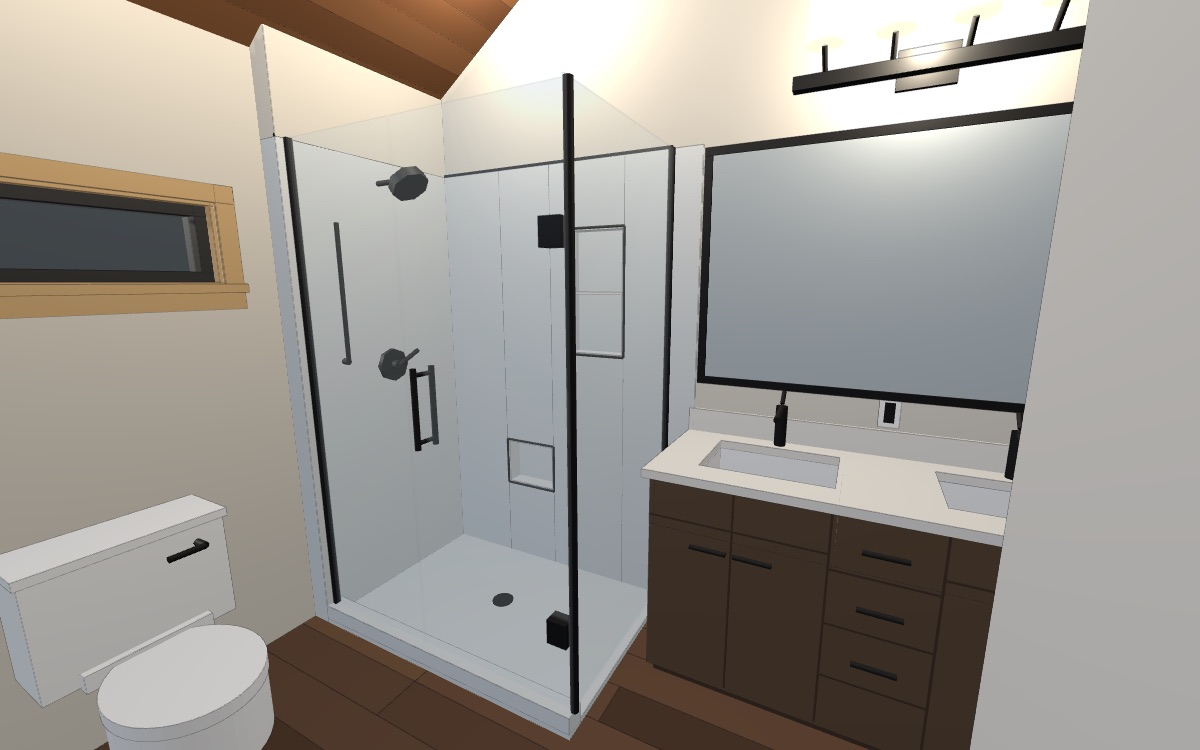
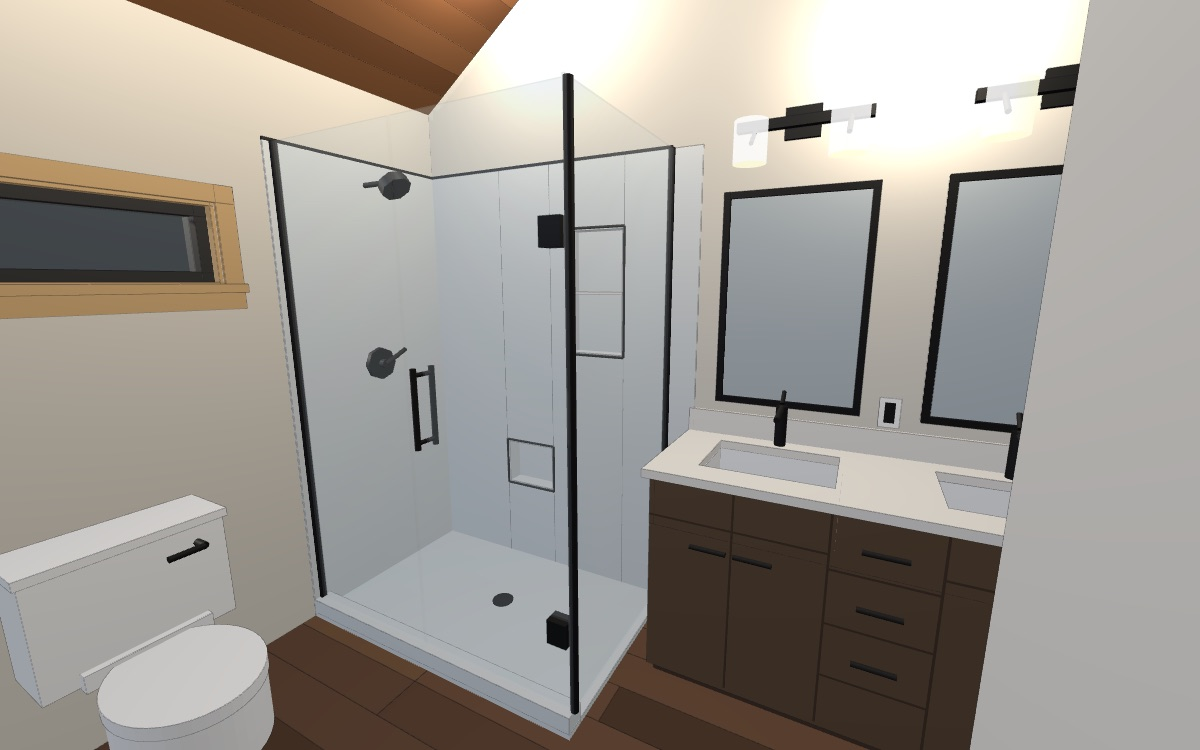
feat: option 1 with the owner's fixtures -- Kohler Essential mirrors, Artifacts sconces, Moen Belfield trim on the west wall

Changed region(s): [[0.555, 0.0, 0.925, 0.5827], [0.185, 0.0307, 0.37, 0.828], [0.3083, 0.2147, 0.37, 0.276]]

diff --git a/main-bath-option-1.html b/main-bath-option-1.html
@@ -55,7 +55,7 @@
   <div class="panel" id="header">
     <button id="hdrclose" title="Hide the caption (View &rarr; Caption brings it back)">&#x2715;</button>
     <h1>Main bath &mdash; Option 1: glass shower, north-wall plumbing</h1>
-    <div class="sub">Valve wall removed; the shower grows to a 35 1/2" x 51 1/2" strip behind frameless glass: head, valve and handheld on the west wall in a 4" furred tiled chase, shaving foot rest (centre) and shampoo niche (by the door) in the stair wall, a 5" cleaning slot to the vanity end, entry door on the south glass (owner 2026-09-09). Toilet and drains unchanged. 138 Tahoma St E, Packwood &middot; one of five layout options for the upper-floor <b>MAIN BATH</b> that remove the framed wall between shower and vanity. Room shell, window F, door 13 RO and the 60" vanity are as built / as drawn in <code>outputs/main-bath-3d.html</code>; everything else is this option's proposal. <b>Orange = assumed, not on any sheet, or flagged for the engineer / plumber.</b> <b>Design option for owner review &mdash; not published. Not engineered &mdash; do not build from this.</b> Spec with clearance table: <code>outputs/main-bath-options/opt-1-glass-north-plumbing-3d-spec.md</code>. Drag to orbit &middot; scroll to zoom &middot; right-drag to pan.</div>
+    <div class="sub">Valve wall removed; the shower grows to a 35 1/2" x 55 1/2" strip behind frameless glass: Moen UT3312 head and valve on the west wall (in the exterior wall with freeze protection, owner decision), Kohler Essential mirrors and Artifacts sconces as a two-mirror option, shaving foot rest (centre) and shampoo niche (by the door) in the stair wall, a 5" cleaning slot to the vanity end, entry door on the south glass (owner 2026-09-09). Toilet and drains unchanged. 138 Tahoma St E, Packwood &middot; one of five layout options for the upper-floor <b>MAIN BATH</b> that remove the framed wall between shower and vanity. Room shell, window F, door 13 RO and the 60" vanity are as built / as drawn in <code>outputs/main-bath-3d.html</code>; everything else is this option's proposal. <b>Orange = assumed, not on any sheet, or flagged for the engineer / plumber.</b> <b>Design option for owner review &mdash; not published. Not engineered &mdash; do not build from this.</b> Spec with clearance table: <code>outputs/main-bath-options/opt-1-glass-north-plumbing-3d-spec.md</code>. Drag to orbit &middot; scroll to zoom &middot; right-drag to pan.</div>
   </div>
   <div class="panel" id="legend">
     <h2>Legend</h2>
@@ -94,8 +94,8 @@
     </div>
     <div class="row" id="variants">
       <span class="lbl">Mirrors</span>
-      <label><input type="radio" name="mir" data-layer="mirOne" checked> One wide mirror (as drawn)</label>
-      <label><input type="radio" name="mir" data-layer="mirTwo"> Two 24" mirrors over the sinks (owner option)</label>
+      <label><input type="radio" name="mir" data-layer="mirTwo" checked> Two Kohler Essential 22x34 mirrors + Artifacts sconces (owner selection)</label>
+      <label><input type="radio" name="mir" data-layer="mirOne"> One wide mirror + Bellevue bar (basis of design)</label>
     </div>
     <div class="row" id="views">
       <span class="lbl">View</span>
@@ -1937,20 +1937,19 @@ function showerTrim(x, z, nx, nz, zHead, xHead, L = 'shower') {
   bar(P(0, 48, 8), P(1.2, 48, 8), 0.6, M.black, L); bar(P(1.2, 48, 8), P(1.2, 72, 8), 0.4, M.black, L);   // slide bar for a handheld
 }
 
-// ---- OPTION 1 / 4 shower: 32" x 50 7/8" mud-set tile floor, glass on the south + east lines; HEAD, VALVE and HANDHELD all on the west wall
-//      on a 4" furred tiled chase (2x4 + tile; plumbing inside the thermal envelope); east glass at z 61.5 leaves a 5" cleaning slot to the
+// ---- OPTION 1 / 4 shower: 32" x 54 3/4" mud-set tile floor, glass on the south + east lines; HEAD and VALVE (Moen UT3312) on the west (exterior)
+//      wall -- owner 2026-09-09 accepts the valve body + riser in the 2x6 stud cavity with freeze protection (no chase); east glass at z 61.5 leaves a 5" cleaning slot to the
 //      vanity end panel; foot rest (centre bay) + shampoo niche (bay by the door) in the stair wall (owner 2026-09-09) --
 {
-  const L = 'shower', x1 = 3.0, x2 = D.WN_IN, z1 = D.EXT_IN, z2 = 61.5, gx = 4.5, H = 84, zc = 10.0;   // zc = face of the west-wall chase (2x4 furring + tile)
+  const L = 'shower', x1 = 3.0, x2 = D.WN_IN, z1 = D.EXT_IN, z2 = 61.5, gx = 4.5, H = 84, zc = z1, zf = z1 + 0.4;   // no chase: zf = tile face of the west wall
   box(x1, x2, 0, 1.5, zc, z2, M.shTile, L);                                   // tiled floor (mud bed)
   box(x1, x1 + 3, 0, 4, zc, z2, M.shTile, L);                                  // 3" curb under the south glass
   cyl(22, 35, 1.5, 1.7, 2, M.black, L);                                        // 2" drain, joist bay 13.5..29.5
-  box(x1, x2, 0, H, z1, zc, M.shTile, L);                                      // west-wall chase, tiled to 84"
-  box(x1, x2, H, yc(zc) - 0.3, z1, zc, M.gyp, L);                              // chase above the tile, to the ceiling
+  box(x1, x2, 0, H, z1, zf, M.shTile, L);                                      // tile: west wall
   // stair-wall niches (owner 2026-09-09): shampoo 12" x 24" (y 48-72) with a shelf, foot rest 12" x 10" (y 18-28); 3 1/2" deep,
   // each inside one 14 1/2" stud bay (studs at z 6.75 + 16n) -- the stair wall is a shear wall, so no stud is cut
   const NZ = [[40.75, 52.75, 48, 72, true], [24.75, 36.75, 18, 28, false]], xb = x2 + 3.5, tf = x2 - 0.4;   // shampoo in the bay by the door, foot rest in the centre bay
-  box(tf, x2, 0, H, zc, 24.75, M.shTile, L); box(tf, x2, 0, H, 36.75, 40.75, M.shTile, L); box(tf, x2, 0, H, 52.75, z2, M.shTile, L);   // tile: north wall, split
+  box(tf, x2, 0, H, z1, 24.75, M.shTile, L); box(tf, x2, 0, H, 36.75, 40.75, M.shTile, L); box(tf, x2, 0, H, 52.75, z2, M.shTile, L);   // tile: north wall, split
   box(tf, x2, 0, 18, 24.75, 36.75, M.shTile, L); box(tf, x2, 28, H, 24.75, 36.75, M.shTile, L);
   box(tf, x2, 0, 48, 40.75, 52.75, M.shTile, L); box(tf, x2, 72, H, 40.75, 52.75, M.shTile, L);
   for (const [za, zb, ya, yb, shelf] of NZ) {
@@ -1964,20 +1963,19 @@ function showerTrim(x, z, nx, nz, zHead, xHead, L = 'shower') {
   label('Shampoo niche 12" x 24" x 3 1/2", bottom 48", mid shelf -- bay by the door\nbetween studs (shear wall -- no stud cut)', 36, 78, 46.75, NOTE);
   label('Foot rest 12" x 10" x 3 1/2", bottom 18", centre bay\n(alt. 6" projecting tiled block if 3 1/2" feels shallow)', 36, 34, 30.75, NOTE);
   box(x2 - 0.4, x2, 0, H, z2, D.VAN_Z1, M.shTile, L);                          // tile carried across the 5" slot to the vanity end panel
-  box(x1, x2, H, H + 0.5, zc - 0.5, zc, M.black, L, false); box(x2 - 0.5, x2, H, H + 0.5, zc, z2, M.black, L, false);   // edge trim
+  box(x1, x2, H, H + 0.5, z1, zf + 0.1, M.black, L, false); box(x2 - 0.5, x2, H, H + 0.5, z1, z2, M.black, L, false);   // edge trim
   // glass: south line -- fixed z 6.6..33 + 28" door z 33.4..61.1 hinged on the corner post at z 61.5; east line -- fixed x 3.4..38.1
-  glassPanel(gx - 0.19, gx + 0.19, 4, H, zc + 0.6, 33); glassPanel(gx - 0.19, gx + 0.19, 4, H, 33.4, z2 - 0.6);
+  glassPanel(gx - 0.19, gx + 0.19, 4, H, zf + 0.2, 33); glassPanel(gx - 0.19, gx + 0.19, 4, H, 33.4, z2 - 0.6);
   glassPanel(x1 + 0.4, x2 - 0.4, 4, H, z2 - 0.19, z2 + 0.19);
-  box(gx - 0.5, gx + 0.5, 4, H, zc + 0.4, zc + 1.0, M.black, 'glass');                     // wall channel, on the chase
+  box(gx - 0.5, gx + 0.5, 4, H, zf, zf + 0.6, M.black, 'glass');                           // wall channel, window wall
   box(x2 - 1.0, x2 - 0.4, 4, H, z2 - 0.5, z2 + 0.5, M.black, 'glass');                     // wall channel, north end of the east panel
   cyl(gx, z2, 4, H, 0.6, M.black, 'glass');                                                // corner post
   for (const y of [14, 66]) box(gx - 1.1, gx + 1.1, y, y + 3.5, z2 - 3.6, z2 - 0.6, M.black, 'glass');   // hinges at the post
   for (const sx of [-1, 1]) { bar(V(gx + sx * 1.7, 38, 36.5), V(gx + sx * 1.7, 50, 36.5), 0.45, M.black, 'glass'); for (const y of [39, 49]) bar(V(gx, y, 36.5), V(gx + sx * 1.7, y, 36.5), 0.35, M.black, 'glass'); }   // pull at the free edge
-  // west-wall chase face (z = zc): valve x 21 y 46, head x 21 y 80 (arm 7.5"), handheld slide bar x 11 y 48..72 -- all spraying / facing east
-  bar(V(21, 46, zc), V(21, 46, zc + 1.0), 3.2, M.black, L); bar(V(21, 46, zc + 1.0), V(21, 46, zc + 2.2), 0.9, M.black, L); bar(V(21, 46, zc + 2.2), V(25.5, 48.5, zc + 2.6), 0.45, M.black, L);   // valve + lever
-  bar(V(21, 80, zc), V(21, 80, zc + 7.5), 0.5, M.black, L); bar(V(21, 80, zc + 7.5), V(21, 78.6, zc + 8.6), 3.4, M.black, L);   // head
-  bar(V(11, 48, zc), V(11, 48, zc + 1.2), 0.6, M.black, L); bar(V(11, 48, zc + 1.2), V(11, 72, zc + 1.2), 0.4, M.black, L);          // handheld slide bar
-  label('Head, valve and handheld on the west wall: 4" furred, tiled chase (2x4 + tile) keeps\nall shower plumbing inside the thermal envelope; supplies enter the chase from the stair wall at the corner', 21, 92, zc, FLAG);
+  // west-wall tile face (z = zf): valve x 21 y 46, head x 21 y 80 (arm 7.5") -- Moen UT3312, facing east
+  bar(V(21, 46, zf), V(21, 46, zf + 1.0), 3.2, M.black, L); bar(V(21, 46, zf + 1.0), V(21, 46, zf + 2.2), 0.9, M.black, L); bar(V(21, 46, zf + 2.2), V(25.5, 48.5, zf + 2.6), 0.45, M.black, L);   // valve + lever
+  bar(V(21, 80, zf), V(21, 80, zf + 7.5), 0.5, M.black, L); bar(V(21, 80, zf + 7.5), V(21, 78.6, zf + 8.6), 2.75, M.black, L);   // head (UT3312 single-function)
+  label('Moen UT3312 Belfield M-CORE 3-Series trim (owner 2026-09-09): head + valve on the WEST (exterior) wall.\nOwner accepts the valve body + riser in the 2x6 cavity: strap to the warm side of the studs, keep the 2" closed-cell\n+ batt behind, add a blow-out fitting for winterizing (UPC 312.6). Shower-only trim: a handheld would need a UT3313 transfer valve', 21, 92, zf, FLAG);
   arc(gx, z2, 28, 180, 270);                                                    // door swing, out toward the room centre
   label('5" cleaning slot between the glass and the vanity end panel\n(owner 2026-09-09); stair-wall tile runs through it', 22, 88, 64, NOTE);
 }
@@ -2009,20 +2007,30 @@ function showerTrim(x, z, nx, nz, zHead, xHead, L = 'shower') {
     bar(V(D.FAUCET_X, cy + D.CTR_T + 6.2, zc), V(D.FAUCET_X - 5.2, cy + D.CTR_T + 5.4, zc), 0.5, M.black, L);
     bar(V(D.FAUCET_X, cy + D.CTR_T + 6.9, zc), V(D.FAUCET_X + 1.6, cy + D.CTR_T + 8.6, zc), 0.35, M.black, L);
   }
-  const f = 1.25, mir = (za, zb, v) => {                                          // mirror + black frame; v = Mirrors radio variant
+  const f = 1.25, mir = (za, zb, v) => {                                          // wide mirror + black frame (base assumption); v = Mirrors radio variant
     tagV(box(x2 - 0.75, x2 - 0.05, D.MIR_Y1, D.MIR_Y2, za, zb, M.mirror, L, false), v);
     tagV(box(x2 - 1.0, x2, D.MIR_Y1 - f, D.MIR_Y1, za - f, zb + f, M.black, L), v); tagV(box(x2 - 1.0, x2, D.MIR_Y2, D.MIR_Y2 + f, za - f, zb + f, M.black, L), v);
     tagV(box(x2 - 1.0, x2, D.MIR_Y1, D.MIR_Y2, za - f, za, M.black, L), v); tagV(box(x2 - 1.0, x2, D.MIR_Y1, D.MIR_Y2, zb, zb + f, M.black, L), v);
   };
   mir(D.MIR_Z1, D.MIR_Z2, 'mirOne');                                                // one wide mirror (BoD "Mirrors", size assumed)
-  for (const zs of D.SINK_Z) mir(zs - 12, zs + 12, 'mirTwo');                       // two 24" mirrors centred on the sinks (owner option 2026-09-09)
-  // Bellevue EGBF34685 33" 4-light bar over the mirror (BoD row 44); E01 draws two wall fixtures at the vanity ends instead
-  const by = D.MIR_Y2 + 8, zc = D.BAR_ZC, hl = D.BAR_L / 2;
-  box(x2 - 0.75, x2, by - 2.5, by + 2.5, zc - 3.5, zc + 3.5, M.black, L);
-  box(x2 - 2.6, x2 - 0.75, by - 0.9, by + 0.9, zc - hl, zc + hl, M.black, L);
+  // two Kohler K-26052 Essential framed mirrors, 22 1/16" x 34 1/16" x 1 3/8", centred on the sinks, bottom y 42 (owner selection 2026-09-09)
+  // + a Kohler Artifacts 72582 two-light sconce (18 3/4" W x 12 3/8" H x 6 3/4" ext.) over each, 3" above the mirror (one per mirror assumed)
+  for (const zs of D.SINK_Z) {
+    const za = zs - 11.03, zb = zs + 11.03, ya = 42, yb = 76.06, fw = 1.0, T = o => tagV(o, 'mirTwo');
+    T(box(x2 - 0.75, x2 - 0.05, ya + fw, yb - fw, za + fw, zb - fw, M.mirror, L, false));
+    T(box(x2 - 1.37, x2, ya, ya + fw, za, zb, M.black, L)); T(box(x2 - 1.37, x2, yb - fw, yb, za, zb, M.black, L));
+    T(box(x2 - 1.37, x2, ya, yb, za, za + fw, M.black, L)); T(box(x2 - 1.37, x2, ya, yb, zb - fw, zb, M.black, L));
+    const by = yb + 3;                                                              // sconce: backplate, arm bar, two arms + shades
+    T(box(x2 - 0.75, x2, by + 4.0, by + 8.4, zs - 2.5, zs + 2.5, M.black, L)); T(box(x2 - 2.0, x2 - 0.75, by + 5.5, by + 6.9, zs - 9.375, zs + 9.375, M.black, L));
+    for (const dz of [-6.5, 6.5]) { T(bar(V(x2 - 1.4, by + 6.2, zs + dz), V(x2 - 5.0, by + 3.0, zs + dz), 0.35, M.black, L)); T(cyl(x2 - 5.5, zs + dz, by, by + 6.0, 2.4, M.shade, L)); }
+  }
+  // Bellevue EGBF34685 33" 4-light bar over the ONE-mirror option (BoD row 44); the two-mirror option carries Kohler Artifacts sconces instead
+  const by = D.MIR_Y2 + 8, zc = D.BAR_ZC, hl = D.BAR_L / 2, T1 = o => tagV(o, 'mirOne');
+  T1(box(x2 - 0.75, x2, by - 2.5, by + 2.5, zc - 3.5, zc + 3.5, M.black, L));
+  T1(box(x2 - 2.6, x2 - 0.75, by - 0.9, by + 0.9, zc - hl, zc + hl, M.black, L));
   for (const dzs of [-12.4, -4.13, 4.13, 12.4]) {
-    bar(V(x2 - 1.7, by + 0.9, zc + dzs), V(x2 - 5.2, by + 3.2, zc + dzs), 0.35, M.black, L);
-    cyl(x2 - 5.5, zc + dzs, by + 3.2, by + 8.7, 2.3, M.shade, L);
+    T1(bar(V(x2 - 1.7, by + 0.9, zc + dzs), V(x2 - 5.2, by + 3.2, zc + dzs), 0.35, M.black, L));
+    T1(cyl(x2 - 5.5, zc + dzs, by + 3.2, by + 8.7, 2.3, M.shade, L));
   }
   const vl = new THREE.PointLight(0xfff0d8, 2400, 0, 2); vl.position.set(x2 - 8, by + 4, zc); scene.add(vl);
 }
@@ -2121,8 +2129,8 @@ function showerTrim(x, z, nx, nz, zHead, xHead, L = 'shower') {
 
 // ---- labels -----------------------------------------------------------------------------------------------------------
 label('OPTION 1 -- glass shower, north-wall plumbing\nvalve wall removed; toilet + drains unchanged', -10, 76, 80);
-label('Shower 32" x 50 7/8" inside, mud-set tile\n1,624 sq in; 30" circle fits; glass to 7\'-0"', 22, 96, 30, NOTE);
-label('Supplies rise in this 2x6 stair wall beside the lav supplies and cross to the\nwest-wall chase at the corner (drilled studs, 1/2" PEX); drain in bay 13.5..29.5', 34, 60, 46, NOTE);
+label('Shower 32" x 54 3/4" inside, mud-set tile\n1,745 sq in; 30" circle fits; glass to 7\'-0"', 22, 96, 30, NOTE);
+label('Supplies rise in this 2x6 stair wall beside the lav supplies and cross into the\nwest wall at the corner (drilled studs, 1/2" PEX); drain in bay 13.5..29.5', 34, 60, 46, NOTE);
 label('Door on the south glass, hinged at the corner post,\nopens out toward the room centre (26" clear)', 4.5, 60, 52, NOTE);
 label('Window F  RO 36 1/2" x 12", sill 61 1/2" (field)\noutside the shower; tempered recommended (~63" bottom edge)', -23, 80, 3, FLAG);
 label('Door 13  30" x 84"  RH in-swing, as framed', -46, 96, 92);
@@ -2140,8 +2148,7 @@ dim(V(D.WS_IN, 2, 20), V(D.WC_X, 2, 20), '25 1/2" WC CL to wall (min 15)', V(0, 
 dim(V(D.WC_X, 2, 20), V(4.5, 2, 20), '27 1/2" WC CL to glass (min 15)', V(0, 0, 0), V(0, 1, 0));
 dim(V(D.WC_X, 2, 34), V(D.WC_X, 2, D.DOOR_Z1), '43" in front of WC (min 24)', V(0, 0, 0), V(0, 1, 0));
 dim(V(6, 6, 36), V(37.9, 6, 36), '31.9" shower inside', V(0, 0, 0), V(0, 1, 0));
-dim(V(20, 6, 10.4), V(20, 6, 61.3), '50 7/8" shower inside', V(0, 0, 0), V(0, 1, 0));
-dim(V(30, 6, 6), V(30, 6, 10), '4" chase', V(0, 0, 0), V(0, 1, 0));
+dim(V(20, 6, 6.6), V(20, 6, 61.3), '54 3/4" shower inside', V(0, 0, 0), V(0, 1, 0));
 dim(V(30, 6, 61.7), V(30, 6, D.VAN_Z1), '5" slot', V(0, 0, 0), V(0, 1, 0));
 dim(V(37, 74, 40.75), V(37, 74, 52.75), 'niche 12"', V(0, 0, 0), V(0, 1, 0));
 dim(V(37, 48, 54.5), V(37, 72, 54.5), '24" (48"-72")', V(0, 0, 0), V(0, 0, 1));

diff --git a/index.html b/index.html
@@ -134,9 +134,8 @@
       <div class="body">
         <h3><a href="main-bath-option-1.html">Main bath &mdash; option 1: glass shower, stair-wall plumbing</a></h3>
         <p>The layout option under review next to the drawing above: the framed wall between shower and vanity is
-        gone, the shower grows to a 35 1/2" x 51 1/2" strip behind frameless glass: head, valve and handheld on the west wall in a furred
-        tiled chase, shaving foot rest and shampoo niche in the stair wall, a 5" cleaning slot between
-        the glass and the vanity end, and the door swings out from the glass corner. A Mirrors switch compares one wide mirror with two. Toilet, window and drains stay put. Orange marks
+        gone, the shower grows to a 35 1/2" x 55 1/2" strip behind frameless glass: Moen Belfield head and valve on the west wall, shaving foot rest and shampoo niche in the stair wall, a 5" cleaning slot between
+        the glass and the vanity end, and the door swings out from the glass corner. Drawn with the two Kohler Essential mirrors and Artifacts sconces she picked; a Mirrors switch shows the one-wide-mirror alternative. Toilet, window and drains stay put. Orange marks
         the assumptions; the Plan view carries every code clearance as a dimension.</p>
         <span class="meta">Updated 2026-09-09 &middot; 8 camera views &middot; layout option, not yet chosen &middot; not engineered</span>
         <div class="chips">
@@ -144,7 +143,7 @@
           <a href="main-bath-option-1.html?view=door&amp;caption=0">From the door</a>
           <a href="main-bath-option-1.html?view=shower&amp;caption=0">Shower</a>
           <a href="main-bath-option-1.html?view=top&amp;show=dim&amp;hide=label">Plan + clearances</a>
-          <a href="main-bath-option-1.html?view=vanity&amp;show=mirTwo&amp;caption=0">Two mirrors</a>
+          <a href="main-bath-option-1.html?view=vanity&amp;show=mirOne&amp;caption=0">One wide mirror</a>
           <a href="main-bath.html?view=door&amp;caption=0">Compare: as drawn</a>
         </div>
       </div>
